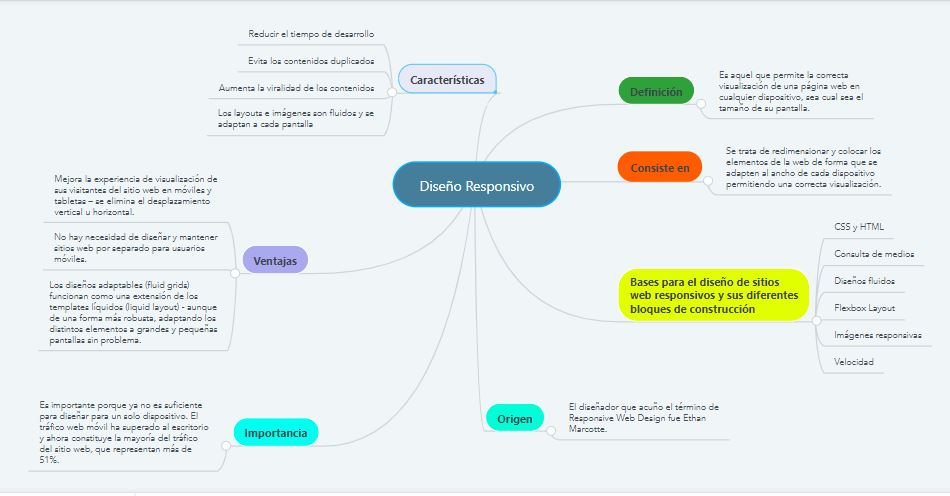
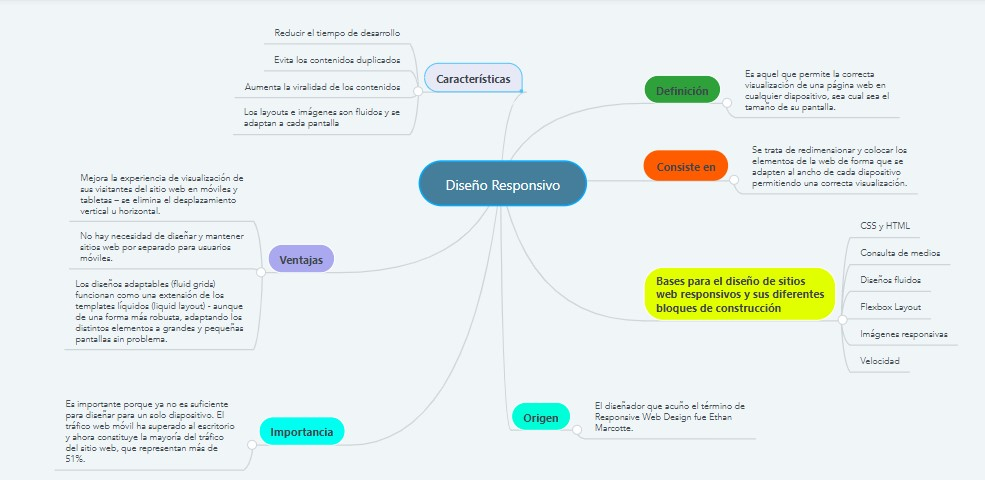
responsivo

diff --git a/Diseño-Responsivo/index.html b/Diseño-Responsivo/index.html
@@ -146,7 +146,7 @@
 	<section id="mapa">
 		<h2>Mapa Mental</h2>
 		<figure>
-			<img src="mapa.png">
+			<img src="Mapa.jpg">
 		</figure>
 	</section>
 <footer>
